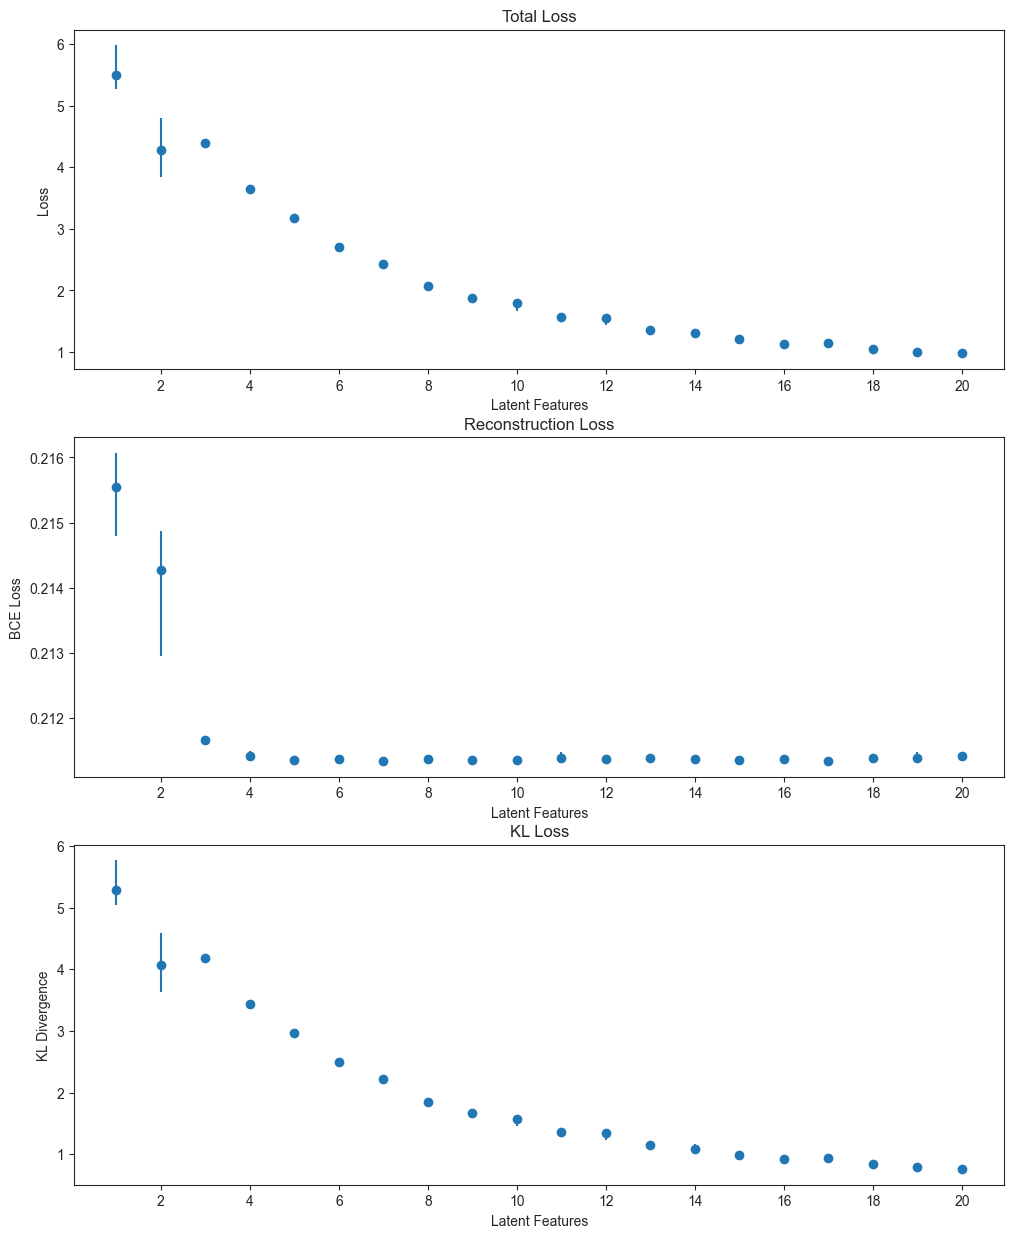
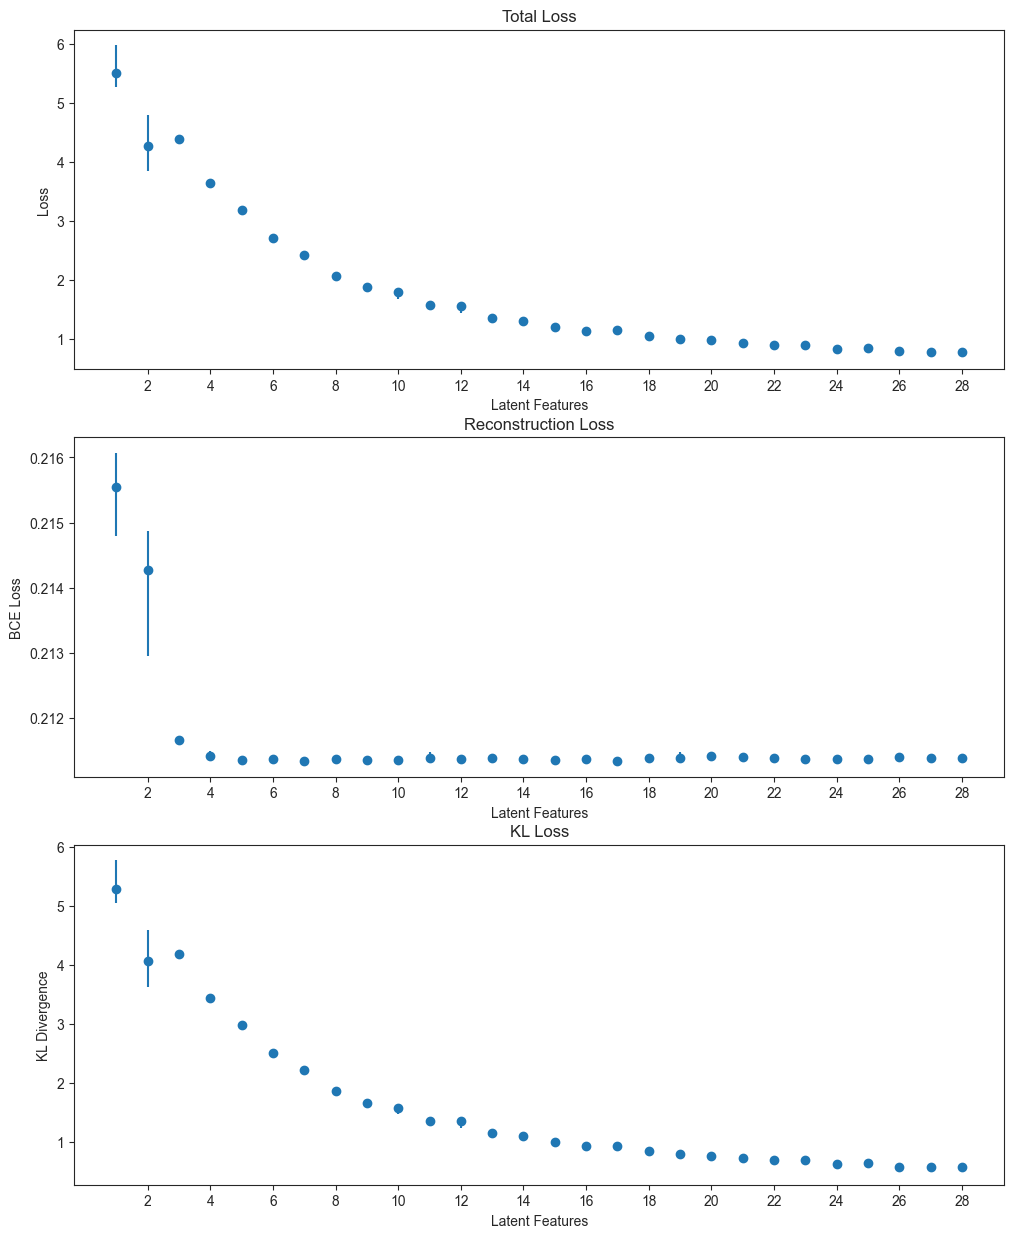
Code

diff --git a/optimal_features.py b/optimal_features.py
@@ -7,6 +7,7 @@ from keras.layers import Layer, Conv2D, Dense, Flatten, Reshape, Conv2DTranspose
 from tensorflow.keras import backend as K
 import numpy as np
 import pandas as pd
+from sklearn.decomposition import PCA
 import random
 from matplotlib import pyplot as plt
 from matplotlib import image as mpimg
@@ -58,6 +59,8 @@ for i in range(len(total_loss_1)):
     # add the sorted values to the loss dataframe
     df_loss.loc[len(df_loss)] = [i+1] + list(total_sorted) + list(reconstruction_sorted) + list(kl_sorted)
 
+df_loss = df_loss.tail(23)
+
 print(df_loss)
 
 # find the size of the loss error bars for total loss
@@ -74,35 +77,56 @@ kl_err_lower = np.array(df_loss["Med KL"] - df_loss["Min KL"])
 
 
 
-fig, axs = plt.subplots(3, 1, figsize=(12, 15))
 
-axs[0].errorbar(df_loss["Extracted Features"], df_loss["Med Total"], yerr=[total_err_lower, total_err_upper], fmt="o", label="750 Epoch, 32 Batch Size")
-axs[1].errorbar(df_loss["Extracted Features"], df_loss["Med Reconstruction"], yerr=[reconstruction_err_lower, reconstruction_err_upper], fmt="o", label="750 Epoch, 32 Batch Size")
-axs[2].errorbar(df_loss["Extracted Features"], df_loss["Med KL"], yerr=[kl_err_lower, kl_err_upper], fmt="o", label="750 Epoch, 32 Batch Size")
 
-axs[0].set_xticks([2, 4, 6, 8, 10, 12, 14, 16, 18, 20])
-axs[1].set_xticks([2, 4, 6, 8, 10, 12, 14, 16, 18, 20])
-axs[2].set_xticks([2, 4, 6, 8, 10, 12, 14, 16, 18, 20])
+# fig, axs = plt.subplots(3, 1, figsize=(12, 15))
+#
+# axs[0].errorbar(df_loss["Extracted Features"], df_loss["Med Total"], yerr=[total_err_lower, total_err_upper], fmt="o", label="750 Epoch, 32 Batch Size")
+# axs[1].errorbar(df_loss["Extracted Features"], df_loss["Med Reconstruction"], yerr=[reconstruction_err_lower, reconstruction_err_upper], fmt="o", label="750 Epoch, 32 Batch Size")
+# axs[2].errorbar(df_loss["Extracted Features"], df_loss["Med KL"], yerr=[kl_err_lower, kl_err_upper], fmt="o", label="750 Epoch, 32 Batch Size")
+#
+# # axs[0].set_xticks(range(2, 30, 2))
+# # axs[1].set_xticks(range(2, 30, 2))
+# # axs[2].set_xticks(range(2, 30, 2))
+#
+# axs[0].set_xticks(range(14, 29))
+# axs[1].set_xticks(range(14, 29))
+# axs[2].set_xticks(range(14, 29))
+#
+# axs[0].set_title("Total Loss")
+# axs[1].set_title("Reconstruction Loss")
+# axs[2].set_title("KL Loss")
+#
+# axs[0].set_ylabel("Loss")
+# axs[1].set_ylabel("BCE Loss")
+# axs[2].set_ylabel("KL Divergence")
+#
+# axs[0].set_xlabel("Latent Features")
+# axs[1].set_xlabel("Latent Features")
+# axs[2].set_xlabel("Latent Features")
+#
+#
+# plt.savefig("Variational Eagle/Plots/loss_pot_zoomed", bbox_inches='tight')
+# plt.show()
 
-axs[0].set_title("Total Loss")
-axs[1].set_title("Reconstruction Loss")
-axs[2].set_title("KL Loss")
 
-axs[0].set_ylabel("Loss")
-axs[1].set_ylabel("BCE Loss")
-axs[2].set_ylabel("KL Divergence")
 
-axs[0].set_xlabel("Latent Features")
-axs[1].set_xlabel("Latent Features")
-axs[2].set_xlabel("Latent Features")
 
-plt.savefig("Variational Eagle/Plots/loss_pot_2", bbox_inches='tight')
+fig, axs = plt.subplots(1, 1, figsize=(15, 5))
+
+axs.errorbar(df_loss["Extracted Features"], df_loss["Med Reconstruction"], yerr=[reconstruction_err_lower, reconstruction_err_upper], fmt="o", label="750 Epoch, 32 Batch Size")
+
+axs.set_xticks(range(6, 30, 2))
+
+axs.set_title("Reconstruction Loss")
+
+axs.set_ylabel("BCE Loss")
+
+axs.set_xlabel("Latent Features")
+
+
+plt.savefig("Variational Eagle/Plots/loss_pot_zoomed_reconstruction", bbox_inches='tight')
 plt.show()
-
-
-
-
-
 
 
 
@@ -166,41 +190,46 @@ plt.show()
 
 # Meaningful extracted features
 
-# fig, axs = plt.subplots(1, 1, figsize=(10, 5))
-#
-# df_num = pd.DataFrame(columns=["Extracted Features", "Min", "Med", "Max"])
-# # df_num = pd.DataFrame(columns=["Extracted Features", "1, "2", "3"])
-#
-# for i in range(1, 21):
-#
-#     features_1 = np.load("Variational Eagle/Extracted Features/Fully Balanced/" + str(i) + "_feature_750_epoch_32_bs_features_1.npy")[0]
-#     features_2 = np.load("Variational Eagle/Extracted Features/Fully Balanced/" + str(i) + "_feature_750_epoch_32_bs_features_2.npy")[0]
-#     features_3 = np.load("Variational Eagle/Extracted Features/Fully Balanced/" + str(i) + "_feature_750_epoch_32_bs_features_3.npy")[0]
-#
-#     pca_1 = PCA(n_components=0.99).fit(features_1)
-#     pca_2 = PCA(n_components=0.99).fit(features_2)
-#     pca_3 = PCA(n_components=0.99).fit(features_3)
-#
-#     num_1 = pca_1.components_.shape[0]
-#     num_2 = pca_2.components_.shape[0]
-#     num_3 = pca_3.components_.shape[0]
-#
-#     sorted = np.sort(np.array([num_1, num_2, num_3]))
-#
-#     df_num.loc[len(df_num)] = [i, sorted[0], sorted[1], sorted[2]]
-#     # df_num.loc[len(df_num)] = [i, i, num_2, num_3]
-#
-# # find the size of the loss error bars for reconstruction loss
-# num_err_upper = np.array(df_num["Max"] - df_num["Med"])
-# num_err_lower = np.array(df_num["Med"] - df_num["Min"])
-#
-# axs.errorbar(df_num["Extracted Features"], df_num["Med"], yerr=[num_err_lower, num_err_upper], fmt="o")
-#
-# # plt.scatter(df_num["Extracted Features"], df_num["1"])
-# # plt.scatter(df_num["Extracted Features"], df_num["2"])
-# # plt.scatter(df_num["Extracted Features"], df_num["3"])
-#
-# plt.show()
+fig, axs = plt.subplots(1, 1, figsize=(10, 5))
+
+df_num = pd.DataFrame(columns=["Extracted Features", "Min", "Med", "Max"])
+# df_num = pd.DataFrame(columns=["Extracted Features", "1, "2", "3"])
+
+for i in range(1, 29):
+
+    features_1 = np.load("Variational Eagle/Extracted Features/Fully Balanced/" + str(i) + "_feature_750_epoch_32_bs_features_1.npy")[0]
+    features_2 = np.load("Variational Eagle/Extracted Features/Fully Balanced/" + str(i) + "_feature_750_epoch_32_bs_features_2.npy")[0]
+    features_3 = np.load("Variational Eagle/Extracted Features/Fully Balanced/" + str(i) + "_feature_750_epoch_32_bs_features_3.npy")[0]
+
+    pca_1 = PCA(n_components=0.99).fit(features_1)
+    pca_2 = PCA(n_components=0.99).fit(features_2)
+    pca_3 = PCA(n_components=0.99).fit(features_3)
+
+    num_1 = pca_1.components_.shape[0]
+    num_2 = pca_2.components_.shape[0]
+    num_3 = pca_3.components_.shape[0]
+
+    sorted = np.sort(np.array([num_1, num_2, num_3]))
+
+    df_num.loc[len(df_num)] = [i, sorted[0], sorted[1], sorted[2]]
+    # df_num.loc[len(df_num)] = [i, i, num_2, num_3]
+
+# find the size of the loss error bars for reconstruction loss
+num_err_upper = np.array(df_num["Max"] - df_num["Med"])
+num_err_lower = np.array(df_num["Med"] - df_num["Min"])
+
+axs.errorbar(df_num["Extracted Features"], df_num["Med"], yerr=[num_err_lower, num_err_upper], fmt="o")
+
+axs.set_xticks(range(2, 30, 2))
+axs.set_xlabel("Latent Features")
+axs.set_ylabel("Meaningful Extracted Features")
+
+# plt.scatter(df_num["Extracted Features"], df_num["1"])
+# plt.scatter(df_num["Extracted Features"], df_num["2"])
+# plt.scatter(df_num["Extracted Features"], df_num["3"])
+
+plt.show()
+
 
 
 

diff --git a/vae_eagle.py b/vae_eagle.py
@@ -15,12 +15,12 @@ from matplotlib import image as mpimg
 
 
 
-encoding_dim = 28
+encoding_dim = 29
 run = 1
 
 # select which gpu to use
 os.environ["CUDA_DEVICE_ORDER"]="PCI_BUS_ID"
-os.environ["CUDA_VISIBLE_DEVICES"]="9"
+os.environ["CUDA_VISIBLE_DEVICES"]="0"
 
 # number of epochs for run
 epochs = 750
